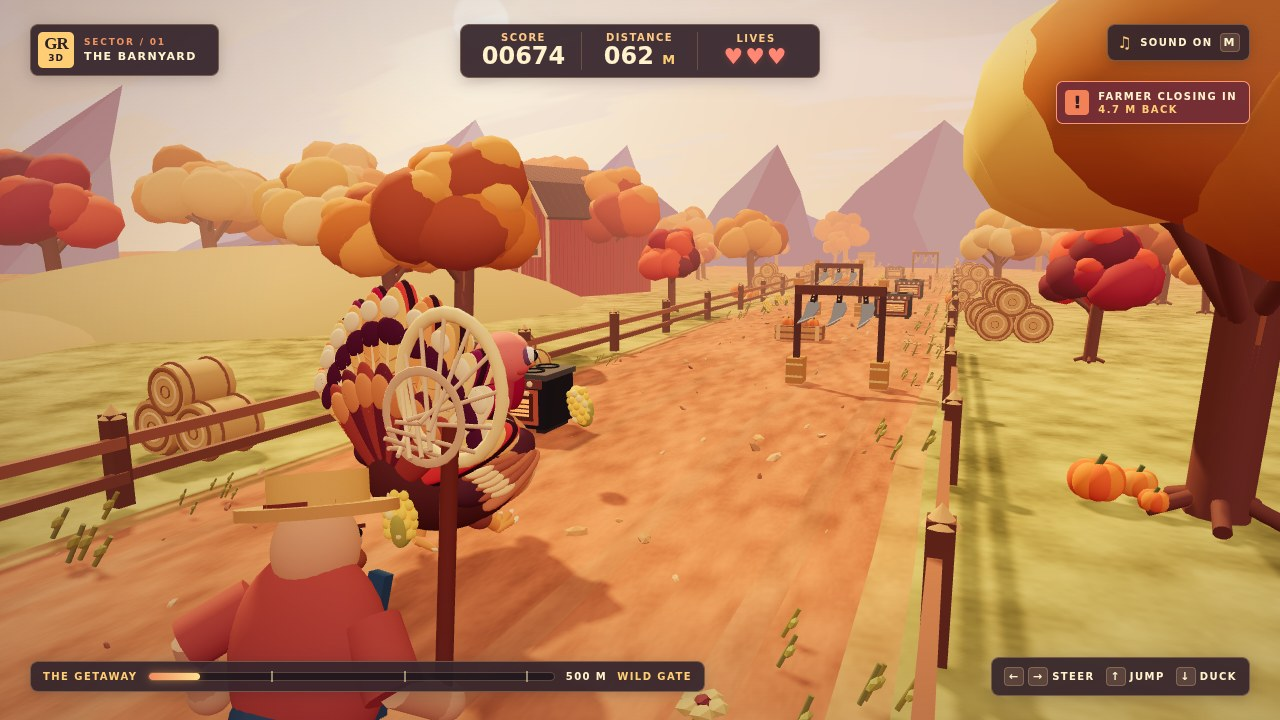
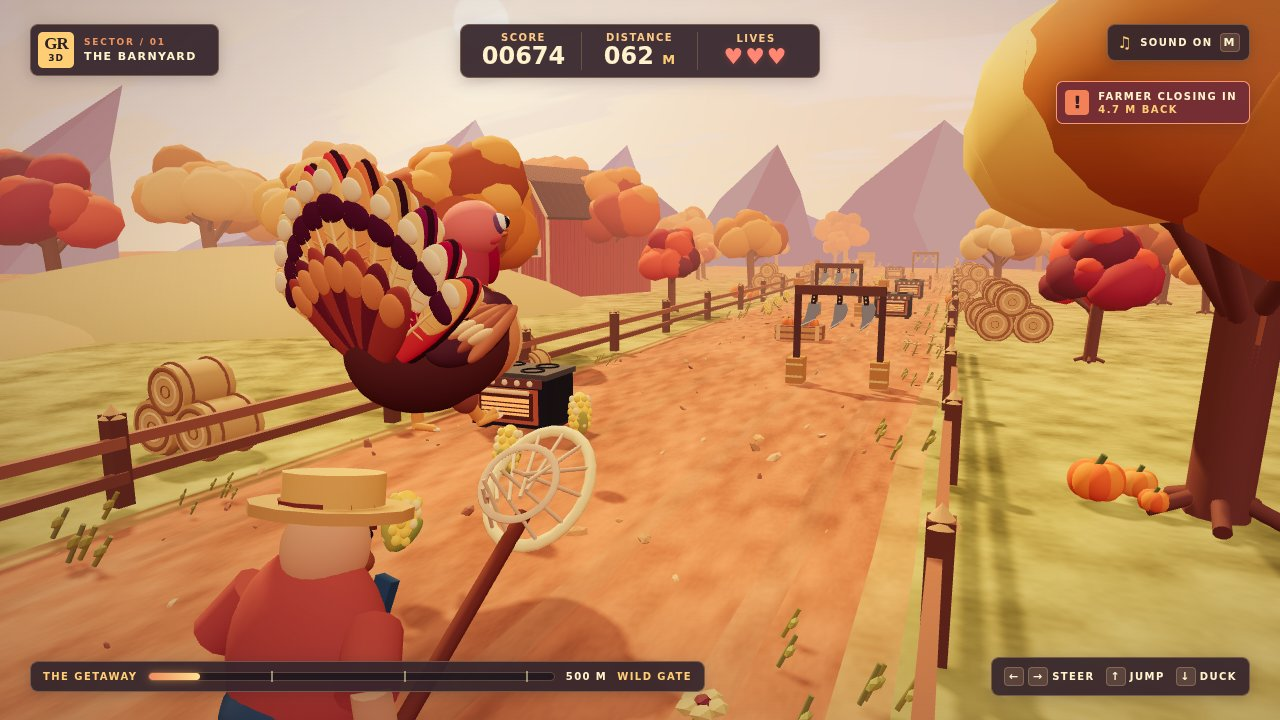
Re-stage chase shot mid-jump and align end-shot lives

diff --git a/game/src/shots.js b/game/src/shots.js
@@ -4,8 +4,8 @@ export function stageShot(name, course) {
   if (name === 'title') return { run: newRun(course), phase: .86 };
   const run = newRun(course, 'play');
   if (name === 'chase') {
-    Object.assign(run, { distance: 62, score: 674, points: 550, corn: 14, gap: 4.65, camera: 'chase', time: 4.72 });
-    return { run, phase: .82 };
+    Object.assign(run, { distance: 62, score: 674, points: 550, corn: 14, gap: 4.65, y: 1.45, vy: 2.4, camera: 'chase', time: 4.72 });
+    return { run, phase: .44 };
   }
   if (name === 'near') {
     Object.assign(run, { distance: 182.55, y: 1.45, vy: .68, score: 1564, points: 1200,
@@ -13,7 +13,7 @@ export function stageShot(name, course) {
     return { run, phase: 1.00 };
   }
   if (name === 'end') {
-    Object.assign(run, { mode: 'escaped', distance: 500, score: 4175, points: 2875, lives: 2, gap: 6.2, corn: 48, time: 31.6 });
+    Object.assign(run, { mode: 'escaped', distance: 500, score: 4025, points: 2875, lives: 1, gap: 6.2, corn: 48, time: 31.6 });
     return { run, phase: .64 };
   }
   return null;
